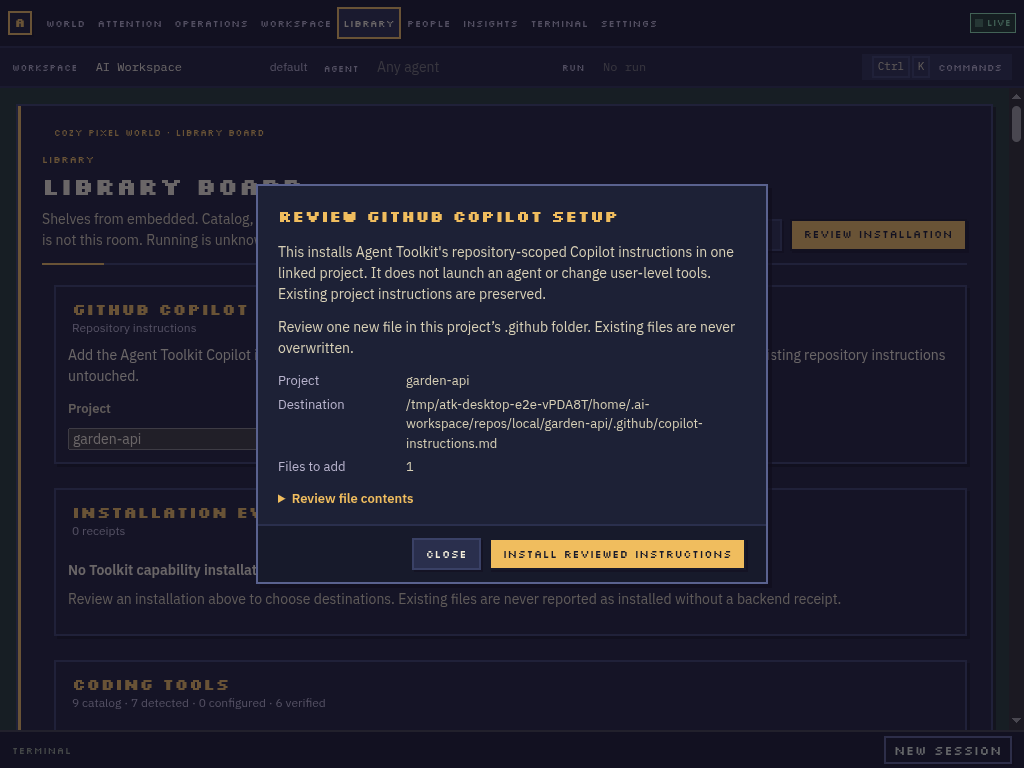
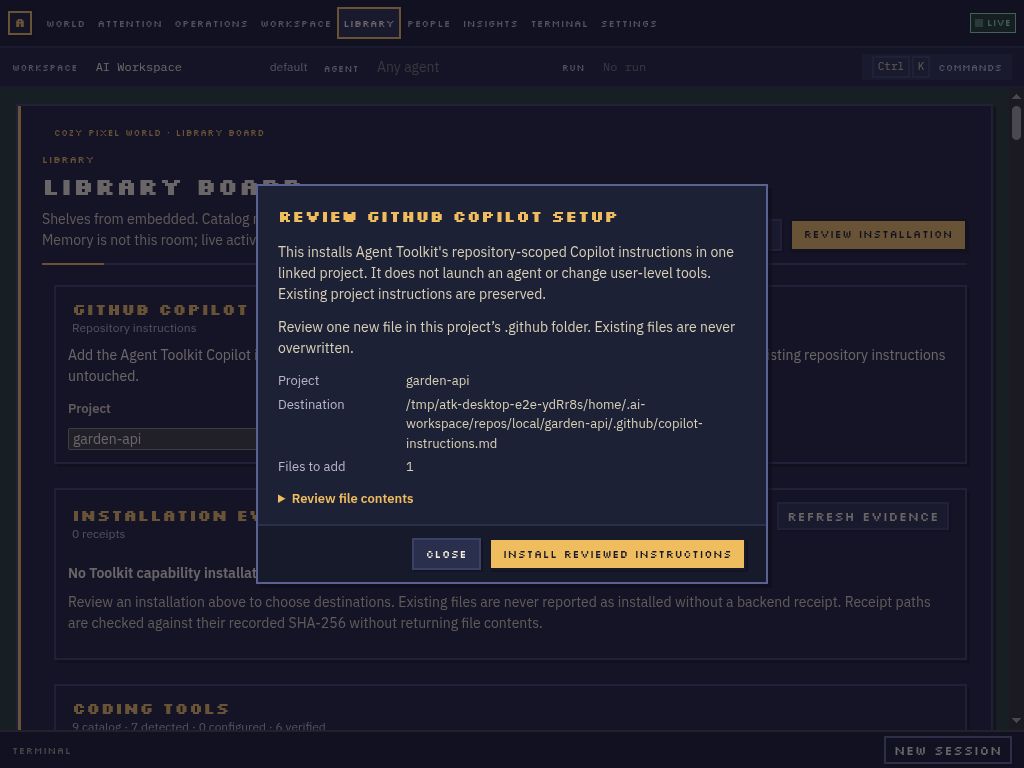
docs(desktop): refresh screenshots and release guidance (#1500)
* docs(desktop): refresh product evidence and release guide

* test(desktop): keep visual terminal evidence concise

* test(desktop): reset terminal output per screenshot

* docs(release): parameterize version examples

* fix(desktop): let terminal inventory shrink at compact sizes

diff --git a/apps/desktop/e2e/electron/capture.spec.ts b/apps/desktop/e2e/electron/capture.spec.ts
@@ -76,7 +76,6 @@ test('capture every destination in Meadow and Dusk at both sizes', async () => {
   if (!WORLD_ONLY) {
     await startJob(page, 'version');
     await startJob(page, 'workspace');
-    await startJob(page, 'no-such-command');
   }
 
   let terminal = page.getByLabel('Terminal for shell');
@@ -88,10 +87,6 @@ test('capture every destination in Meadow and Dusk at both sizes', async () => {
     await session.getByRole('textbox', { name: 'Label', exact: true }).fill('shell');
     await session.getByRole('button', { name: 'Open session' }).click();
     terminal = page.getByLabel('Terminal for shell');
-    await terminal.click();
-    await page.keyboard.type('agent-toolkit version');
-    await page.keyboard.press('Enter');
-    await expect(terminal.locator('.xterm-rows')).toContainText(/\d+\.\d+/);
     await expect(page.getByRole('region', { name: 'Receipts' }).getByRole('listitem')).toHaveCount(0, {
       timeout: 20_000,
     });
@@ -176,13 +171,14 @@ test('capture every destination in Meadow and Dusk at both sizes', async () => {
         }
         await settle(page);
         if (!WORLD_ONLY && destination === 'Terminal') {
-          const marker = `capture-${theme}-${size.width}`;
           await terminal.click();
-          // Split the visible marker with adjacent shell strings so the PTY's
-          // input echo cannot satisfy the output assertion by itself.
-          await page.keyboard.type(`printf '%s\\n' 'cap''${marker.slice(3)}'`);
+          // Keep the published visual evidence useful as a real workstation:
+          // show the actual workspace directory and bundled backend version.
+          // Clear the terminal on each size/theme capture because the renderer
+          // can remount xterm when its viewport or color scheme changes.
+          await page.keyboard.type('clear && pwd && agent-toolkit version');
           await page.keyboard.press('Enter');
-          await expect(terminal.locator('.xterm-rows')).toContainText(marker);
+          await expect(terminal.locator('.xterm-rows')).toContainText(/agent-toolkit \d+\.\d+\.\d+/);
         }
         await page.mouse.move(size.width - 1, size.height - 1);
         await page.screenshot({

diff --git a/apps/desktop/src/shell/shell.module.css b/apps/desktop/src/shell/shell.module.css
@@ -216,7 +216,9 @@
 }
 
 .shell[data-destination='/terminal'] .content {
-  flex: none;
+  flex: 1;
+  min-height: 0;
+  overflow-y: auto;
   padding-bottom: var(--space-4);
 }
 

diff --git a/docs/RELEASING.md b/docs/RELEASING.md
@@ -10,15 +10,23 @@ The **canonical artifact** is the native V binary from a GitHub Release (`agent-
 
 > **Definitions (ADR-021/ADR-025):** **canonical artifact** = native V binary from GitHub Release (what `SHA256SUMS` covers). **distribution adapter** = PyPI wheel / npm wrapper / marketplace plugin that wraps the canonical artifact. **downstream package** = Homebrew Formula / AUR PKGBUILD that fetches the canonical artifact from the Release. Never publish adapters/downstream without a published canonical artifact.
 
-## Bump → validate → tag → watch → verify
+## Prepare → review → release → verify
 
 ```bash
-# 1. Bump all version sources atomically
-./scripts/bump-version.vsh 1.3.0
+# 1. Create an isolated release-preparation branch before changing versions.
+git switch main
+git pull --ff-only
+export RELEASE_VERSION=1.43.0  # replace with the reviewed next version
+git switch -c "chore/release-${RELEASE_VERSION}"
+export VJOBS=2  # keep local V compilation bounded on memory-constrained hosts
+
+# 2. Bump all version sources atomically and update CHANGELOG.md.
+./scripts/bump-version.vsh "$RELEASE_VERSION"
 ./make.vsh gen-surface  # regenerate docs/surface/openapi.json (reads VERSION)
 git diff --stat  # VERSION, packages/pypi/agent-toolkit-cli/src/agent_toolkit/__init__.py, package.json, packages/npm/*/package.json, .claude-plugin/marketplace.json, .cursor-plugin/marketplace.json, docs/surface/openapi.json
 
-# 2. Validate (CI parity)
+# 3. Validate (CI parity), then open a release-preparation PR.
+# Never push a release commit or tag directly to main.
 ./make.vsh test && ./make.vsh build-cli
 AGENT_TOOLKIT_ROOT="$PWD" ./build/agent-toolkit --version
 uv sync --project packages/pypi/agent-toolkit-cli --all-extras
@@ -28,22 +36,30 @@ AGENT_TOOLKIT_ROOT="$PWD" uv run --project packages/pypi/agent-toolkit-cli --dir
 ./scripts/generate-catalogs.vsh
 AGENT_TOOLKIT_ROOT=$PWD ./build/agent-toolkit build --check
 
-# 3. Commit + tag
-git add -A && git commit -m "chore(release): bump to v1.3.0"
-git tag -a v1.3.0 -m "v1.3.0"
-git push origin main --follow-tags
+# 4. Commit and create the PR.
+git add VERSION CHANGELOG.md packages/pypi packages/npm package.json \
+  .claude-plugin .cursor-plugin docs/surface/openapi.json
+git commit -m "chore(release): prepare v${RELEASE_VERSION}"
+git push -u origin "chore/release-${RELEASE_VERSION}"
+gh pr create --title "chore(release): prepare v${RELEASE_VERSION}" --body "Prepare v${RELEASE_VERSION} release metadata and changelog."
 
-# 4. Watch Release + downstream
-gh run list --repo ulises-jeremias/agent-toolkit --limit 5  # Release v1.3.0 should be completed success
-gh release view v1.3.0 --repo ulises-jeremias/agent-toolkit
+# 5. After review, green required checks and merge, tag the exact merged main commit.
+git switch main
+git pull --ff-only
+git tag -a "v${RELEASE_VERSION}" -m "v${RELEASE_VERSION}"
+git push origin "v${RELEASE_VERSION}"
+
+# 6. Watch Release + downstream
+gh run list --repo ulises-jeremias/agent-toolkit --limit 5  # release should be completed success
+gh release view "v${RELEASE_VERSION}" --repo ulises-jeremias/agent-toolkit
 # Docker is a reusable job on Release after upload-assets (do not rely on `on: release`;
 # GITHUB_TOKEN-created releases do not start sibling workflows). Manual fallback:
-#   gh workflow run Docker --ref v1.3.0
+#   gh workflow run Docker --ref "v${RELEASE_VERSION}"
 # Homebrew/AUR notifies wait for V binaries then repository_dispatch; check their repos
 gh run list --repo ulises-jeremias/homebrew-tap --limit 3
 gh run list --repo ulises-jeremias/aur-packages --limit 3
 
-# 5. Verify PyPI / npm / AUR / formula
+# 7. Verify PyPI / npm / AUR / formula
 curl -sS https://pypi.org/pypi/agent-toolkit-cli/json | python3 -c "import json,urllib.request; print(json.load(urllib.request.urlopen('https://pypi.org/pypi/agent-toolkit-cli/json'))['info']['version'])"
 npm view agent-toolkit-cli version
 npm view agent-toolkit-cli optionalDependencies
@@ -66,8 +82,8 @@ curl -sS 'https://aur.archlinux.org/rpc/?v=5&type=info&arg[]=agent-toolkit-bin' 
 Usage:
 
 ```bash
-./scripts/bump-version.vsh --check 1.3.0  # dry-run, exits 1 if would change
-./scripts/bump-version.vsh 1.3.0         # writes files
+./scripts/bump-version.vsh --check "$RELEASE_VERSION"  # dry-run, exits 1 if would change
+./scripts/bump-version.vsh "$RELEASE_VERSION"         # writes files
 ```
 
 ## Rollback / republish
@@ -81,10 +97,10 @@ Usage:
   ```bash
   npm trust github agent-toolkit-cli --file publish-npm.yml --repository ulises-jeremias/agent-toolkit --allow-publish -y
   ```
-* **GitHub Release:** delete tag locally + remote + release, fix, re-tag. Prefer `gh release delete v1.3.0 --yes && git tag -d v1.3.0 && git push origin :v1.3.0`.
+* **GitHub Release:** delete tag locally + remote + release, fix, re-tag. Prefer `gh release delete "v${RELEASE_VERSION}" --yes && git tag -d "v${RELEASE_VERSION}" && git push origin ":v${RELEASE_VERSION}"`.
 * **Homebrew/AUR:** downstream repos are notified via `repository_dispatch` from `release.yml` `create-release`. If they missed, replay per `docs/AUR_PLAYBOOK.md`:
   ```bash
-  gh api repos/ulises-jeremias/aur-packages/dispatches -f event_type=new-release -f 'client_payload[package_name]=agent-toolkit-bin' -f 'client_payload[version]=v1.3.0'
+  gh api repos/ulises-jeremias/aur-packages/dispatches -f event_type=new-release -f 'client_payload[package_name]=agent-toolkit-bin' -f "client_payload[version]=v${RELEASE_VERSION}"
   ```
 
 ## Asset naming
@@ -136,14 +152,12 @@ Failure visibility on the releasing repo:
 
 * Homebrew PR-create 403 (`not permitted to create or approve pull requests`): enable **Allow GitHub Actions to create and approve pull requests** on `homebrew-tap`, and/or ensure `HOMEBREW_TAP_TOKEN` has **Pull requests: Write**. See [`distribution/homebrew/README.md`](../distribution/homebrew/README.md#maintainer-formula-pr-must-open-automatically).
 
-
-
 ## Downstream install source (GitHub Release V binaries)
 
 Homebrew (`homebrew-tap`) and AUR (`aur-packages`) install **GitHub Release V binaries** (ADR-018 floating names + `SHA256SUMS`), not a Python wheel. PyPI `agent-toolkit-cli` remains a thin launcher for `uv`/`pip` users ([ADR-021](adrs/ADR-021-pypi-binary.md)). npm `agent-toolkit-cli` + `agent-toolkit-cli-{linux-x64,linux-arm64,darwin-arm64,darwin-x64,win32-x64}` wrap the same binaries ([ADR-025](adrs/ADR-025-npm-binary.md)).
 
-- **Homebrew:** Formula `agent-toolkit.rb` `url`s `agent-toolkit-macos-*` / `agent-toolkit-linux-*` from the GitHub Release. Verify `brew install` then `agent-toolkit version`.
-- **AUR:** `agent-toolkit-bin` PKGBUILD sources the linux ELF + `SHA256SUMS`. Verify `yay -S agent-toolkit-bin` then `agent-toolkit version`.
+* **Homebrew:** Formula `agent-toolkit.rb` `url`s `agent-toolkit-macos-*` / `agent-toolkit-linux-*` from the GitHub Release. Verify `brew install` then `agent-toolkit version`.
+* **AUR:** `agent-toolkit-bin` PKGBUILD sources the linux ELF + `SHA256SUMS`. Verify `yay -S agent-toolkit-bin` then `agent-toolkit version`.
 
 See `docs/AUR_PLAYBOOK.md` for re-dispatch; downstream repos are the source of truth for their formulas.
 
@@ -154,6 +168,6 @@ See `docs/AUR_PLAYBOOK.md` for re-dispatch when AUR leaves maintenance.
 Re-dispatch example:
 
 ```bash
-gh api repos/ulises-jeremias/aur-packages/dispatches -f event_type=new-release -f 'client_payload[package_name]=agent-toolkit-bin' -f 'client_payload[version]=v1.3.0'
-gh api repos/ulises-jeremias/homebrew-tap/dispatches -f event_type=new-release -f 'client_payload[formula_name]=agent-toolkit' -f 'client_payload[version]=1.3.0'
+gh api repos/ulises-jeremias/aur-packages/dispatches -f event_type=new-release -f 'client_payload[package_name]=agent-toolkit-bin' -f "client_payload[version]=v${RELEASE_VERSION}"
+gh api repos/ulises-jeremias/homebrew-tap/dispatches -f event_type=new-release -f 'client_payload[formula_name]=agent-toolkit' -f "client_payload[version]=${RELEASE_VERSION}"
 ```

diff --git a/README.md b/README.md
@@ -49,15 +49,19 @@ flowchart LR
 
 Install the matching AppImage or `.deb` on Linux, DMG on macOS, or NSIS installer on Windows from [Releases](https://github.com/ulises-jeremias/agent-toolkit/releases/latest). The Electron app bundles its backend; normal workspace setup does not require a separate CLI, source checkout, or manual configuration files. Start with the [Desktop guide](docs/desktop/README.md) for supported workflows and current limits.
 
-| Meadow valley | Dusk valley |
+| Project interior | Dusk valley |
 | --- | --- |
-| <img src="static/screenshots/world.png" width="100%" alt="Agent Toolkit's workspace valley with project houses, shared landmarks, creek and forest framing in Meadow light" /> | <img src="static/screenshots/world-dusk.png" width="100%" alt="The workspace valley, project houses and forest framing under Dusk lighting" /> |
-| Project interior | Capability Library |
-| <img src="static/screenshots/project-interior.png" width="100%" alt="A project house with real file, memory, terminal and project stations" /> | <img src="static/screenshots/library.png" width="100%" alt="Library showing reusable capabilities and installation evidence" /> |
-| People roster | Operations |
-| <img src="static/screenshots/people.png" width="100%" alt="Configured offline People in the durable collaborator roster" /> | <img src="static/screenshots/operations.png" width="100%" alt="Operations showing actual jobs, outcomes and loop templates" /> |
-| Real PTY terminal | Reviewed import |
-| <img src="static/screenshots/terminal.png" width="100%" alt="Live shell session with real command output in the integrated terminal" /> | <img src="static/screenshots/people-import.png" width="100%" alt="Munder hire import review showing mapped and ignored fields before saving" /> |
+| <img src="static/screenshots/project-interior.png" width="100%" alt="A project house with real file, memory, terminal and project stations" /> | <img src="static/screenshots/world-dusk.png" width="100%" alt="The workspace valley, project houses and forest framing under Dusk lighting" /> |
+| Capability Library | People roster |
+| <img src="static/screenshots/library.png" width="100%" alt="Library showing reusable capabilities and installation evidence" /> | <img src="static/screenshots/people.png" width="100%" alt="Configured offline People in the durable collaborator roster" /> |
+| Operations | Real PTY terminal |
+| <img src="static/screenshots/operations.png" width="100%" alt="Operations showing actual jobs, outcomes and loop templates" /> | <img src="static/screenshots/terminal.png" width="100%" alt="Live shell session with real command output in the integrated terminal" /> |
+
+<p align="center">
+  <img src="static/screenshots/people-import.png" width="72%" alt="Munder hire import review showing mapped and ignored fields before saving" />
+</p>
+
+<p align="center"><sub>Import is a review step; saving a Person never starts a session.</sub></p>
 
 These PNGs are captures from Electron with the real backend and a disposable workspace: offline People stay off the map, and the terminal is a live PTY. Project and landmark names appear when you hover, focus, or select a place, keeping the resting valley clear while preserving keyboard discovery. The links above go directly to CI, licensing, and release information. Current visual limits and capture evidence are tracked in [`docs/desktop/VISUAL_QA.md`](docs/desktop/VISUAL_QA.md).
 
